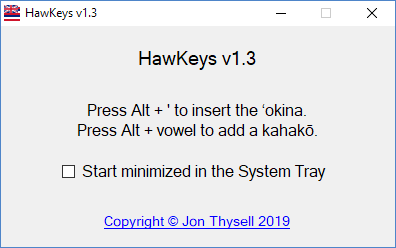
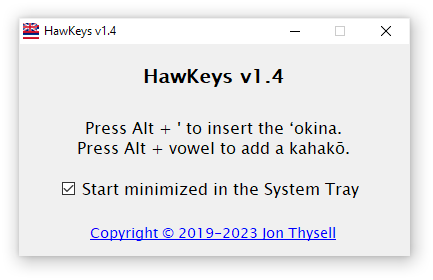
Version v1.4.0 release

diff --git a/CHANGELOG.md b/CHANGELOG.md
@@ -1,6 +1,6 @@
 # HawKeys Change Log #
 
-## next ##
+## v1.4.0 ##
 
 * Added more icon resolutions for high DPI scenarios
 * Changed dialog font to Lucida Sans Unicode so it renders properly on Windows XP
